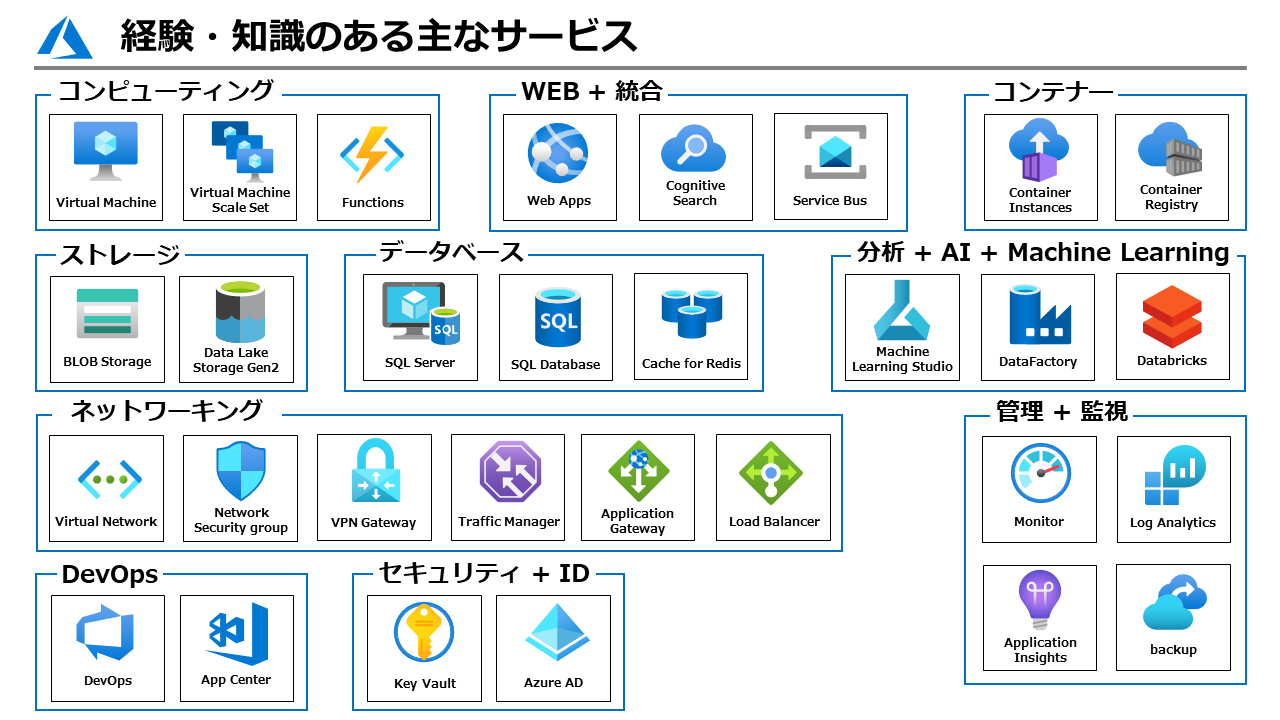
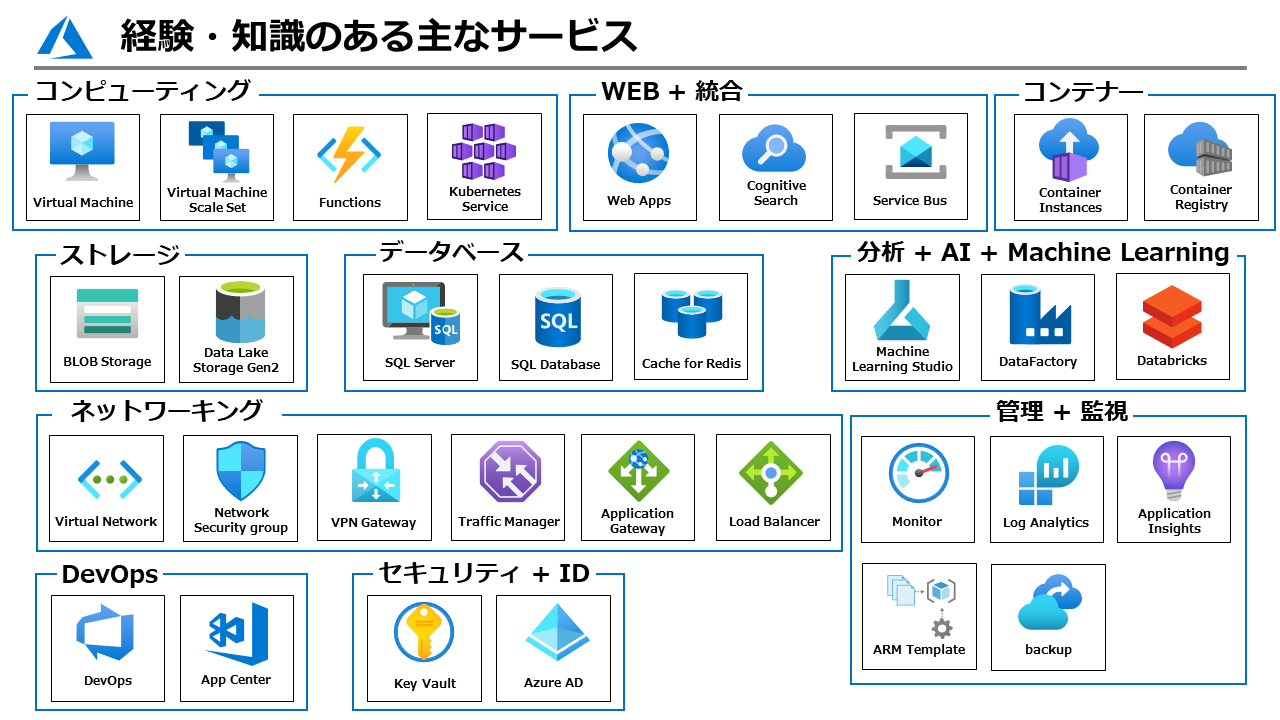
update resume

diff --git a/README.md b/README.md
@@ -107,6 +107,7 @@ https://youtu.be/-TQj7soKVEg
 | CSS                           | :star::star:              |
 | PowerShell                    | :star::star:              |
 | Azure Resource Manager (JSON) | :star::star::star:        |
+| HashiCorp Configuration Language (HCL) | :star::star:     |
 
 | Version Control           | Level                     |
 |:--------------------------|--------------------------:|
@@ -123,6 +124,7 @@ https://youtu.be/-TQj7soKVEg
 # 保有資格
 |資格|取得年月|
 |:----|-------:|
+| Certified Kubernetes Administrator              | 2022年2月 |
 | Azure DevOps Engineer Expert                    | 2019年11月 |
 | Azure Administrator Associate                   | 2019年10月 |
 | HTML5 レベル2                                   | 2019年4月 |
@@ -131,9 +133,6 @@ https://youtu.be/-TQj7soKVEg
 | VMware Sales Professional                       | 2013年5月 |
 | CCNP                                            | 2013年4月 |
 | モバイルシステム技術検定2級                       | 2012年6月 |
-| マイクロソフトオフィススペシャリストPowerPoint2010 | 2012年6月 |
-| マイクロソフトオフィススペシャリストWord2010       | 2012年5月 |
-| マイクロソフトオフィススペシャリストExcel2010      | 2012年5月 |
 | OracleMasterBronze 11g                          | 2013年4月 |
 
 ※更新の必要なものは失効していますが、参考として。CCNPに関してはCCNAのみ更新しています。
@@ -145,13 +144,17 @@ https://youtu.be/-TQj7soKVEg
 **インフラエンジニア / 構築・運用**
 
 - Azureを活用したマイクロサービスアーキテクチャの採用
-    - PostgresDBのバックアップ・リストア対応
-    - Postgresのレプリケーション検証
+    - PostgresDBのSKU変更（バックアップ・リストア対応、レプリケーション対応）
     - AKSのLBのSKU変更、ノードの追加、バージョンアップ
     - アプリのデプロイ対応
     - Azureリソース作成（Terraform）
     - HCLのセキュリティ強化（Key vault）
     - Kerberos認証の導入（Azure ActiveDirectory DomainService）
+    - GitHub Actions（CI/CD）、Flux（GitOps）の調査
+    - Microsft Graph APIの調査（Active Directory、AAD Connect、AzureADを利用）
+    - プロダクトのセールスポイントのアイデア出し
+    - AWS保守サポート（CloudWatch、Athena、S3）
+    - セキュリティ関連などの問い合わせ事項の調査、回答
 
 ## ECサイト運用/構築 | 2020年12月 - 2021年5月
 
